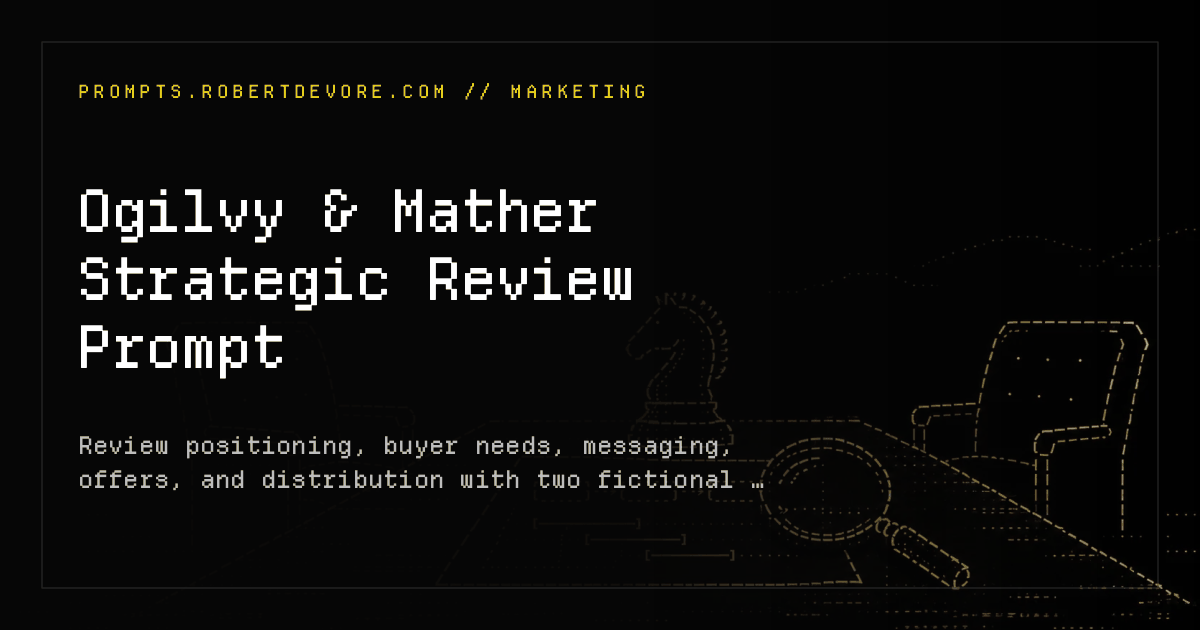
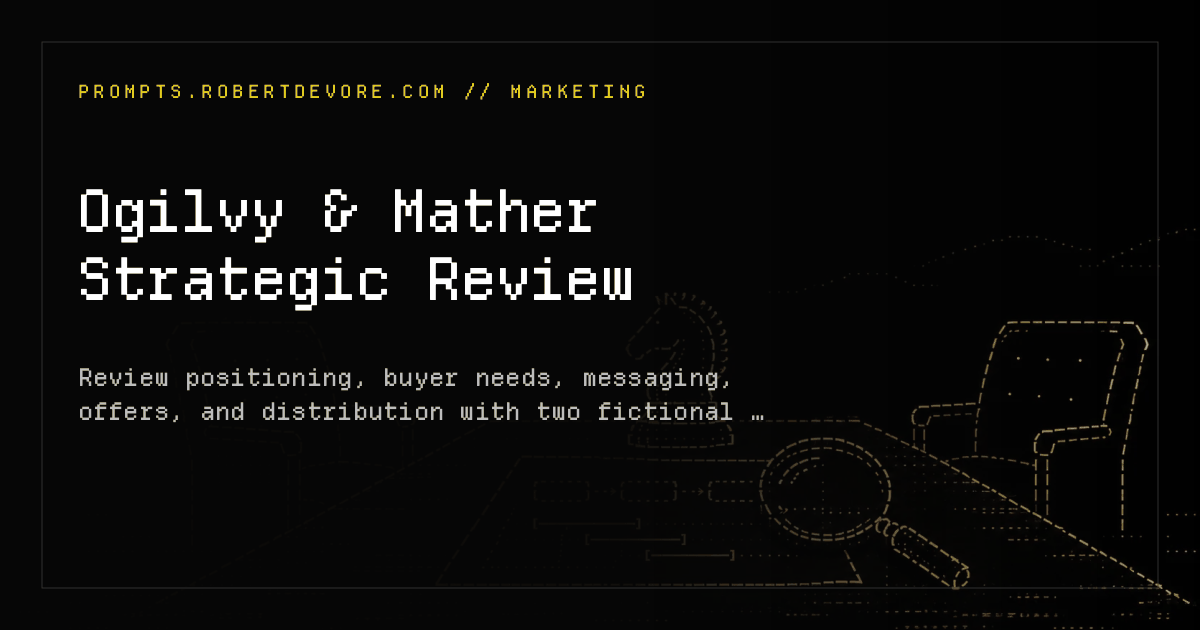
Handle all archive pages in SEO checks and keep CI scans portable

Changed region(s): [[0.0617, 0.5127, 0.6167, 0.6635], [0.0617, 0.754, 0.6167, 0.7841], [0.0617, 0.6937, 0.6167, 0.7238]]

diff --git a/scripts/check-seo.py b/scripts/check-seo.py
@@ -4,6 +4,7 @@
 from __future__ import annotations
 
 import json
+import re
 import sys
 from html.parser import HTMLParser
 from pathlib import Path
@@ -68,12 +69,12 @@ def expected_schema(route: str) -> str:
         return "AboutPage"
     if route == "contact/index.html":
         return "ContactPage"
-    if route.startswith("blog/") and route not in {"blog/index.html", "blog/page/2/index.html"}:
+    if re.fullmatch(r"(?:blog/)?page/[1-9][0-9]*/index\.html", route):
+        return "CollectionPage"
+    if route.startswith("blog/") and route != "blog/index.html":
         return "BlogPosting"
     if route in {
-        "page/2/index.html",
         "blog/index.html",
-        "blog/page/2/index.html",
         "images/index.html",
         "writing/index.html",
         "business/index.html",

diff --git a/content/posts/ogilvy-mather-universal-strategic-review.md b/content/posts/ogilvy-mather-universal-strategic-review.md
@@ -1,7 +1,7 @@
 ---
 title: "Ogilvy & Mather: Universal Strategic Review Prompt"
 description: "Review positioning, buyer needs, messaging, offers, and distribution with two fictional strategic voices, evidence checks, and a seven-day action plan."
-seo_title: "Ogilvy & Mather Strategic Review Prompt"
+seo_title: "Ogilvy & Mather Strategic Review"
 keywords: "strategic review prompt, marketing strategy prompt, positioning review, messaging critique, campaign review"
 featured_image: /assets/images/ascii-grunge/ogilvy-mather-strategic-review.webp
 og_image: /assets/social/ogilvy-mather-universal-strategic-review-social.png
